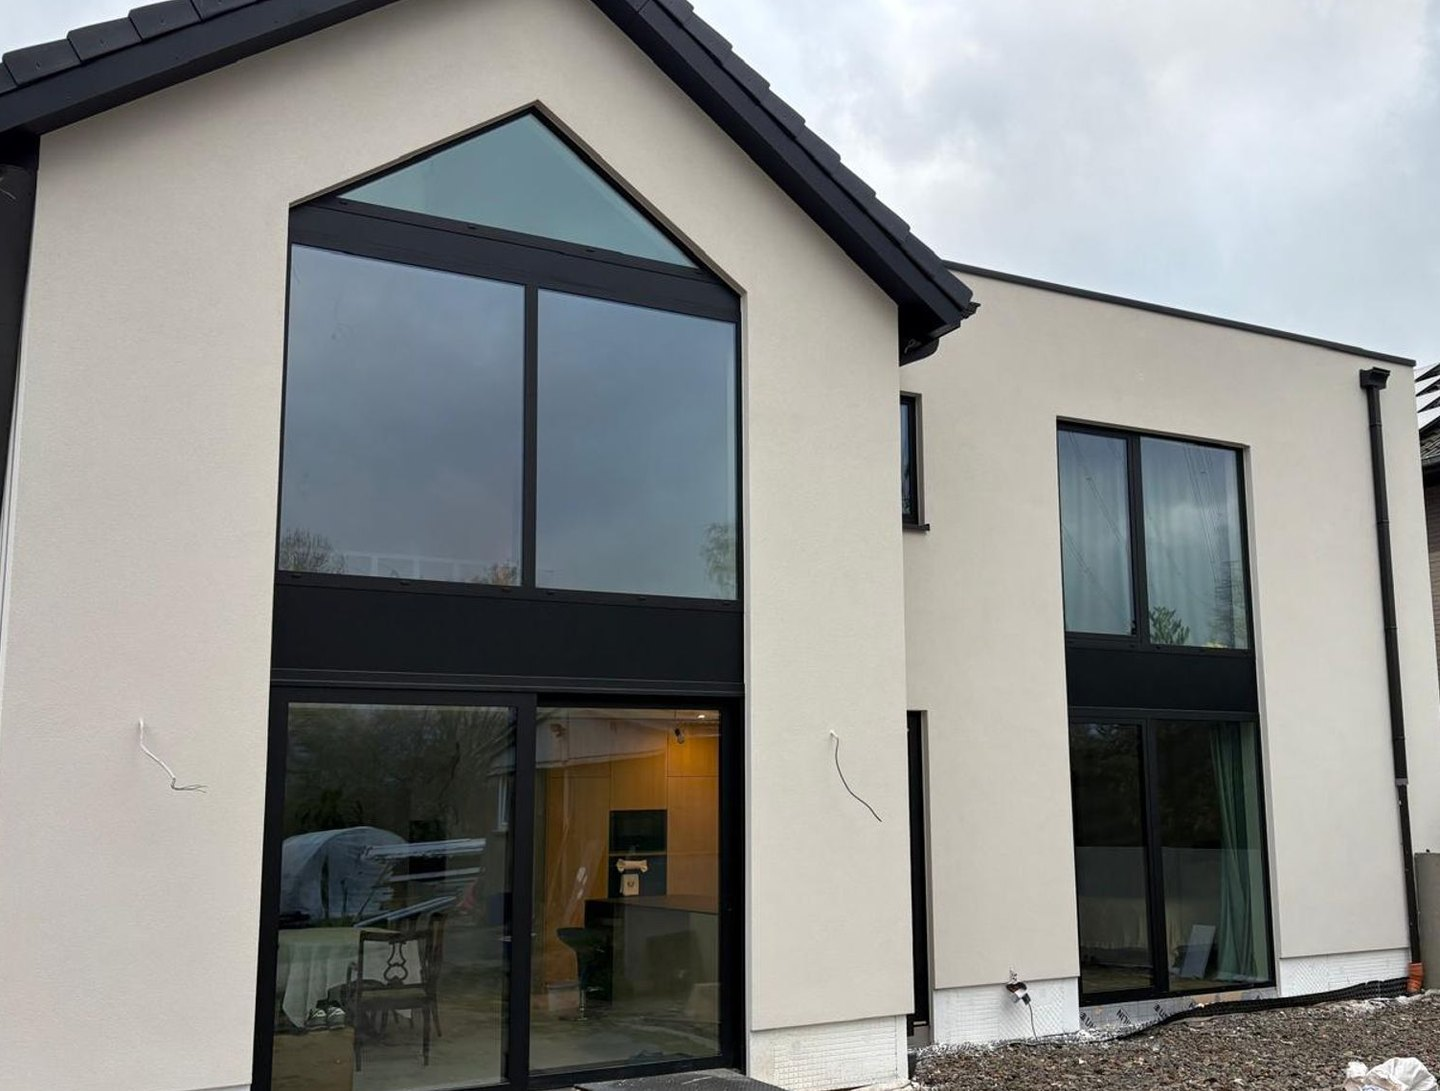
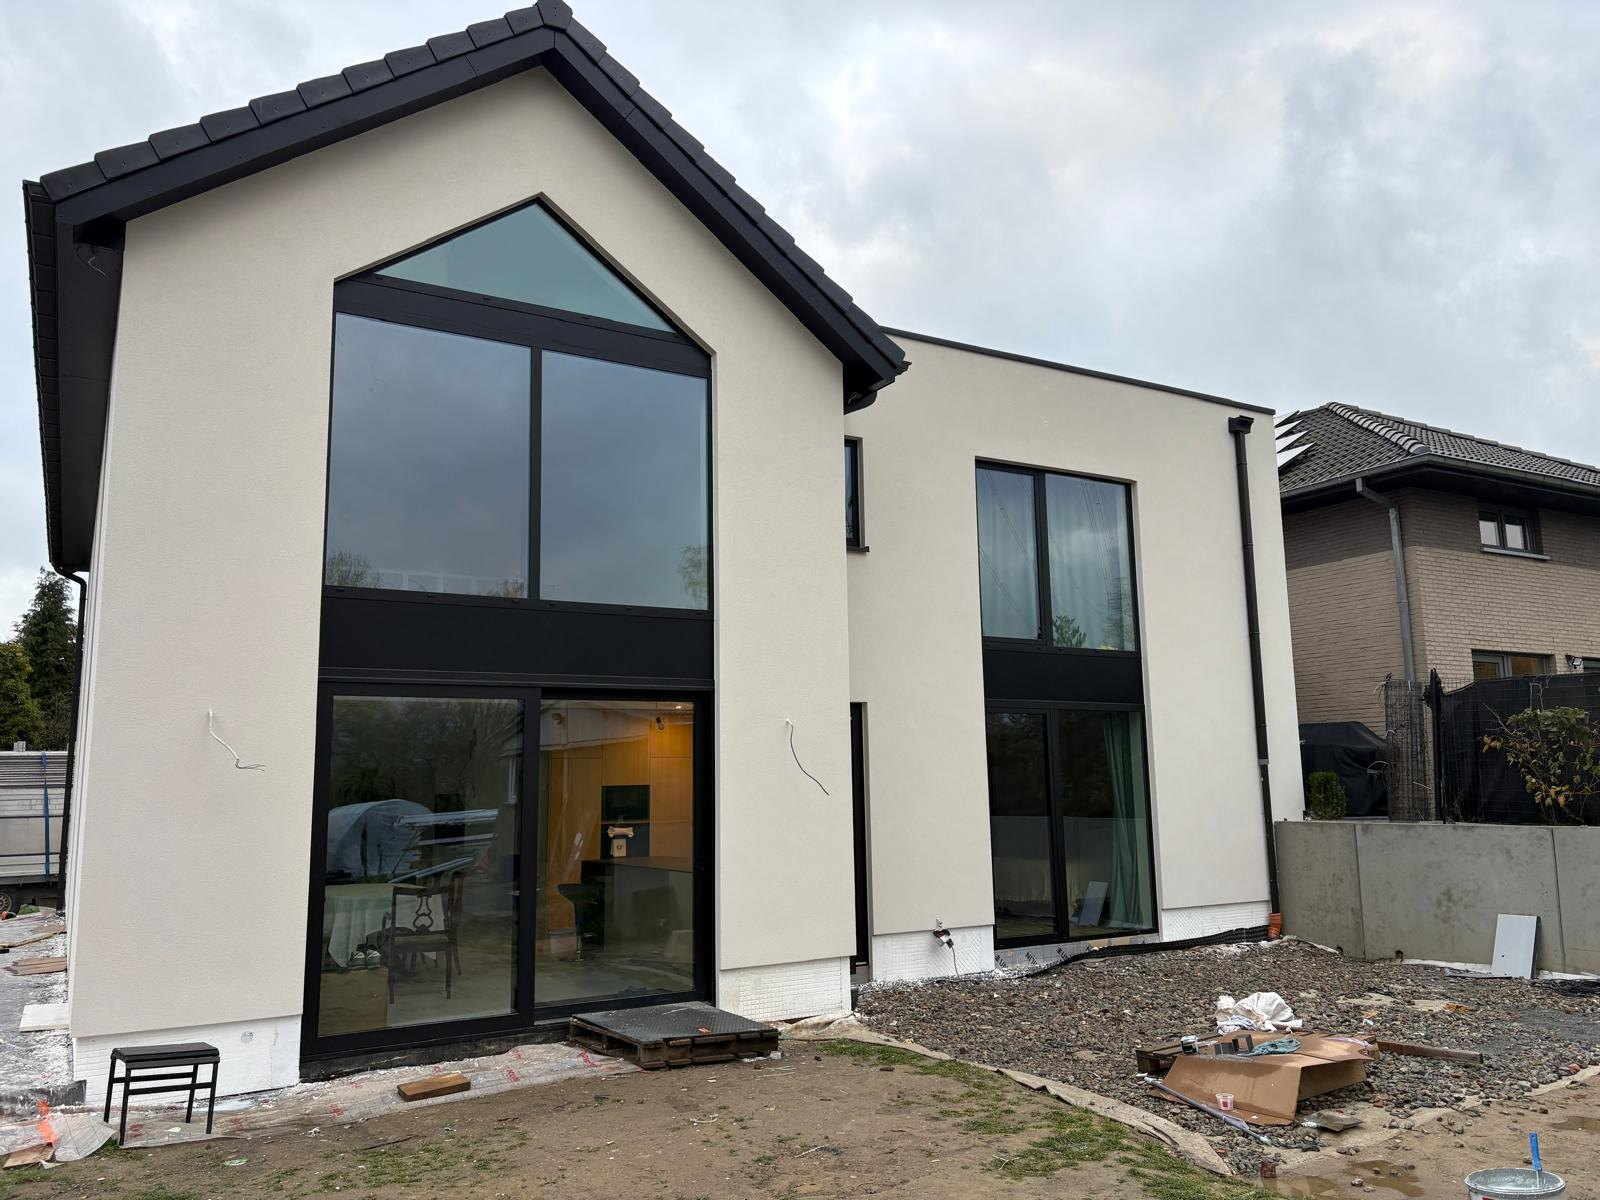
Mettre le pignon de Wilsele en avant et relier les quatre étapes

diff --git a/src/data/chantiers.ts b/src/data/chantiers.ts
@@ -44,6 +44,7 @@ export interface Paire {
   apres: string;
   /** Rapport largeur / hauteur du cadre du curseur. */
   ratio: number;
+  avantRetouche?: boolean;
   cadreAvant?: Cadrage;
   cadreApres?: Cadrage;
 }
@@ -64,13 +65,6 @@ export interface Chantier {
   paires: Paire[];
 }
 
-export const ETAPES_WILSELE = [
-  ['wilsele/entree-brique', 'wilsele/baie-brique'],
-  ['wilsele/angle-isolation', 'wilsele/cote-panneaux'],
-  ['wilsele/entree-sous-enduit', 'wilsele/baie-sous-enduit'],
-  ['wilsele/entree-crepi', 'wilsele/cote-crepi', 'wilsele/baie-crepi'],
-];
-
 /** L'ordre des réalisations (liste et accueil) : les vues horizontales précèdent les comparaisons verticales. */
 export const CHANTIERS: Chantier[] = [
   {
@@ -78,10 +72,10 @@ export const CHANTIERS: Chantier[] = [
     commune: 'wilsele',
     slug: SLUGS_CHANTIERS.wilsele,
     couverture: 'wilsele/maison-terminee',
-    photos: ETAPES_WILSELE.flat(),
+    photos: ['wilsele/baie-brique', 'wilsele/angle-isolation', 'wilsele/baie-sous-enduit', 'wilsele/baie-crepi'],
     paires: [
+      { avant: 'wilsele/pignon-reconstitue', apres: 'wilsele/baie-crepi', ratio: 4 / 3, avantRetouche: true },
       { avant: 'wilsele/entree-brique', apres: 'wilsele/entree-crepi', ratio: 825 / 510 },
-      { avant: 'wilsele/baie-brique', apres: 'wilsele/baie-crepi', ratio: 752 / 570 },
       { avant: 'wilsele/cote-panneaux', apres: 'wilsele/cote-crepi', ratio: 415 / 311 },
     ],
   },

diff --git a/src/i18n/fr.ts b/src/i18n/fr.ts
@@ -222,11 +222,11 @@ export const fr = {
 
   /** Le texte alternatif de chaque photo (la commune, jamais l'adresse). */
   photos: {
+    'wilsele/pignon-reconstitue': 'Reconstitution de la vue du pignon en briques, avec les personnes et l’échafaudage retirés par retouche',
     'wilsele/entree-brique': 'Briques apparentes autour de la porte d’entrée, derrière l’échafaudage',
     'wilsele/baie-brique': 'Grande baie sous le pignon encore en briques',
     'wilsele/angle-isolation': 'Panneaux isolants gris posés autour de l’angle et des baies protégées',
     'wilsele/cote-panneaux': 'Panneaux gris entre les trois fenêtres hautes de la façade latérale',
-    'wilsele/entree-sous-enduit': 'Sous-enduit autour de la porte et des cinq fenêtres protégées',
     'wilsele/baie-sous-enduit': 'Sous-enduit du pignon et film de protection vert sur les vitrages',
     'wilsele/entree-crepi': 'Crépi clair autour de la porte en bois et des cinq fenêtres',
     'wilsele/cote-crepi': 'Trois baies verticales aux cadres noirs dans la façade claire',
@@ -552,6 +552,7 @@ export const fr = {
     },
 
     avantApres: {
+      avantRetouche: 'Avant · retouche IA',
       titre: 'La différence se voit.',
       texte: 'Faites glisser le curseur\u00a0: la même façade pendant les travaux, puis une fois terminée.',
       avant: 'Pendant les travaux',

diff --git a/src/i18n/nl.ts b/src/i18n/nl.ts
@@ -221,11 +221,11 @@ export const nl = {
 
   /** De alternatieve tekst van elke foto (de gemeente, nooit het adres). */
   photos: {
+    'wilsele/pignon-reconstitue': 'Reconstructie van de bakstenen puntgevel waarbij de personen en de steiger digitaal zijn verwijderd',
     'wilsele/entree-brique': 'Metselwerk rond de voordeur achter de steiger',
     'wilsele/baie-brique': 'Grote glaspartij in de nog ongepleisterde puntgevel',
     'wilsele/angle-isolation': 'Grijze isolatieplaten op de hoek en rond de afgedekte ramen',
     'wilsele/cote-panneaux': 'Grijze platen tussen de drie hoge ramen van de zijgevel',
-    'wilsele/entree-sous-enduit': 'Grondlaag rond de voordeur en de vijf afgedekte ramen',
     'wilsele/baie-sous-enduit': 'Grondlaag op de puntgevel en groene beschermfolie op het glas',
     'wilsele/entree-crepi': 'Licht pleisterwerk rond de houten voordeur en de vijf ramen',
     'wilsele/cote-crepi': 'Drie hoge ramen met zwarte profielen in de lichte zijgevel',
@@ -549,6 +549,7 @@ export const nl = {
     },
 
     avantApres: {
+      avantRetouche: 'Voor · AI-bewerking',
       titre: 'Het verschil is zichtbaar.',
       texte: 'Schuif met de cursor: dezelfde gevel tijdens de werken en daarna afgewerkt.',
       avant: 'Tijdens de werken',
